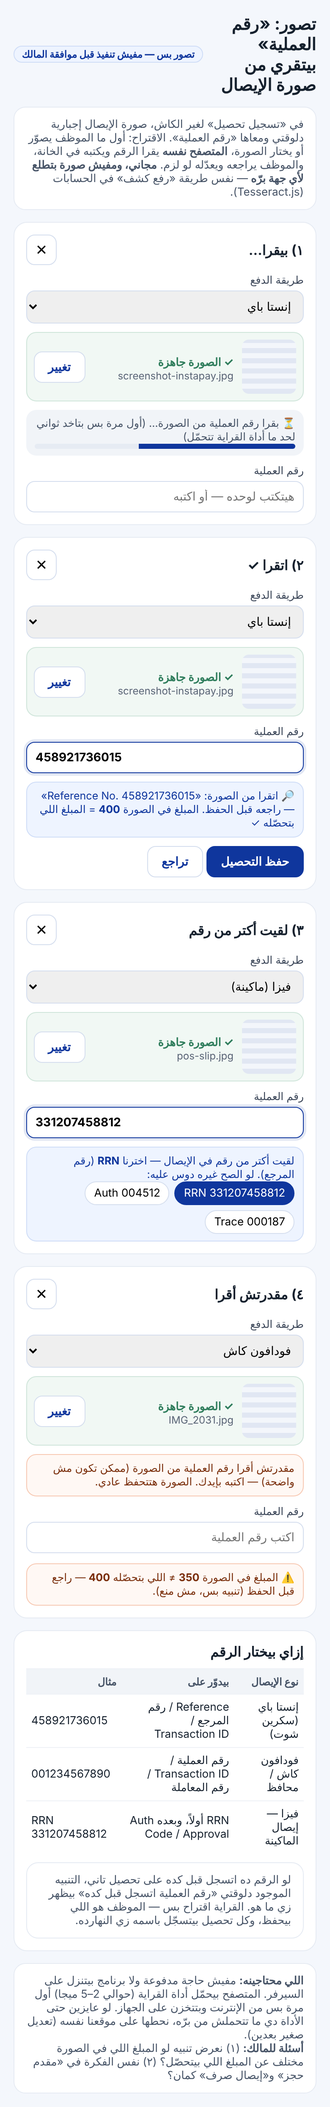
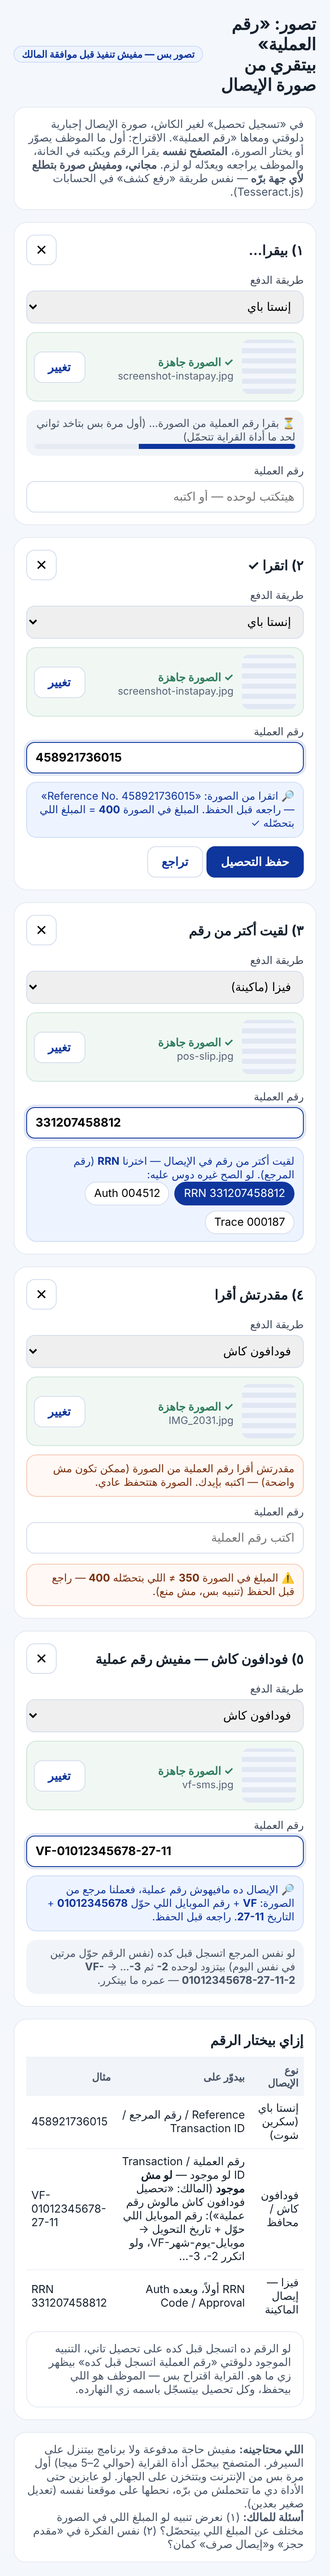
Mockup rev 2: Vodafone Cash without a transaction number → VF-<sender mobile>-<dd-mm>, -2/-3 when repeated (owner via main chat 7)
Claude-Session: https://claude.ai/code/session_01UqVZHW6epYvnmo5ftQ9K3R

Changed region(s): [[0.0615, 0.0, 0.9538, 0.9968], [0.0923, 0.5918, 0.1846, 0.6541], [0.4, 0.623, 0.4615, 0.6541]]

diff --git a/docs/ui-references/mockups/receipt-ocr.html b/docs/ui-references/mockups/receipt-ocr.html
@@ -54,11 +54,18 @@ table{width:100%;border-collapse:collapse;font-size:13px}td,th{border-top:1px so
    <label>رقم العملية<input placeholder="اكتب رقم العملية"></label>
    <div class="read bad" style="margin-top:2px">⚠ المبلغ في الصورة <b>350</b> ≠ اللي بتحصّله <b>400</b> — راجع قبل الحفظ (تنبيه بس، مش منع).</div>
   </div>
+  <div class="card"><div class="mh"><h3>٥) فودافون كاش — مفيش رقم عملية</h3><button class="x" aria-label="إغلاق">✕</button></div>
+   <label>طريقة الدفع<select><option>فودافون كاش</option></select></label>
+   <div class="done"><span class="thumb"></span><div><b>✓ الصورة جاهزة</b><small>vf-sms.jpg</small></div><button class="btn" type="button">تغيير</button></div>
+   <label>رقم العملية<input class="filled" value="VF-01012345678-27-11"></label>
+   <div class="read ok">🔎 الإيصال ده مافيهوش رقم عملية، فعملنا مرجع من الصورة: <b dir="ltr">VF</b> + رقم الموبايل اللي حوّل <b dir="ltr">01012345678</b> + التاريخ <b dir="ltr">27-11</b>. راجعه قبل الحفظ.</div>
+   <div class="read wait">لو نفس المرجع اتسجل قبل كده (نفس الرقم حوّل مرتين في نفس اليوم) بيتزود لوحده <b dir="ltr">-2</b> ثم <b dir="ltr">-3</b>… → <b dir="ltr">VF-01012345678-27-11-2</b> — عمره ما بيتكرر.</div>
+  </div>
  </div>
  <div class="card"><h3>إزاي بيختار الرقم</h3>
   <table><thead><tr><th>نوع الإيصال</th><th>بيدوّر على</th><th>مثال</th></tr></thead><tbody>
    <tr><td>إنستا باي (سكرين شوت)</td><td>Reference / رقم المرجع / Transaction ID</td><td dir="ltr">458921736015</td></tr>
-   <tr><td>فودافون كاش / محافظ</td><td>رقم العملية / Transaction ID / رقم المعاملة</td><td dir="ltr">001234567890</td></tr>
+   <tr><td>فودافون كاش / محافظ</td><td>رقم العملية / Transaction ID لو موجود — <b>لو مش موجود</b> (المالك: «تحصيل فودافون كاش مالوش رقم عملية»): رقم الموبايل اللي حوّل + تاريخ التحويل → <span dir="ltr">VF-موبايل-يوم-شهر</span>، ولو اتكرر <span dir="ltr">-2</span>، <span dir="ltr">-3</span>…</td><td dir="ltr">VF-01012345678-27-11</td></tr>
    <tr><td>فيزا — إيصال الماكينة</td><td>RRN أولاً، وبعده Auth Code / Approval</td><td dir="ltr">RRN 331207458812</td></tr>
   </tbody></table>
   <p class="note">لو الرقم ده اتسجل قبل كده على تحصيل تاني، التنبيه الموجود دلوقتي «رقم العملية اتسجل قبل كده» بيظهر زي ما هو. القراية اقتراح بس — الموظف هو اللي بيحفظ، وكل تحصيل بيتسجّل باسمه زي النهارده.</p>
